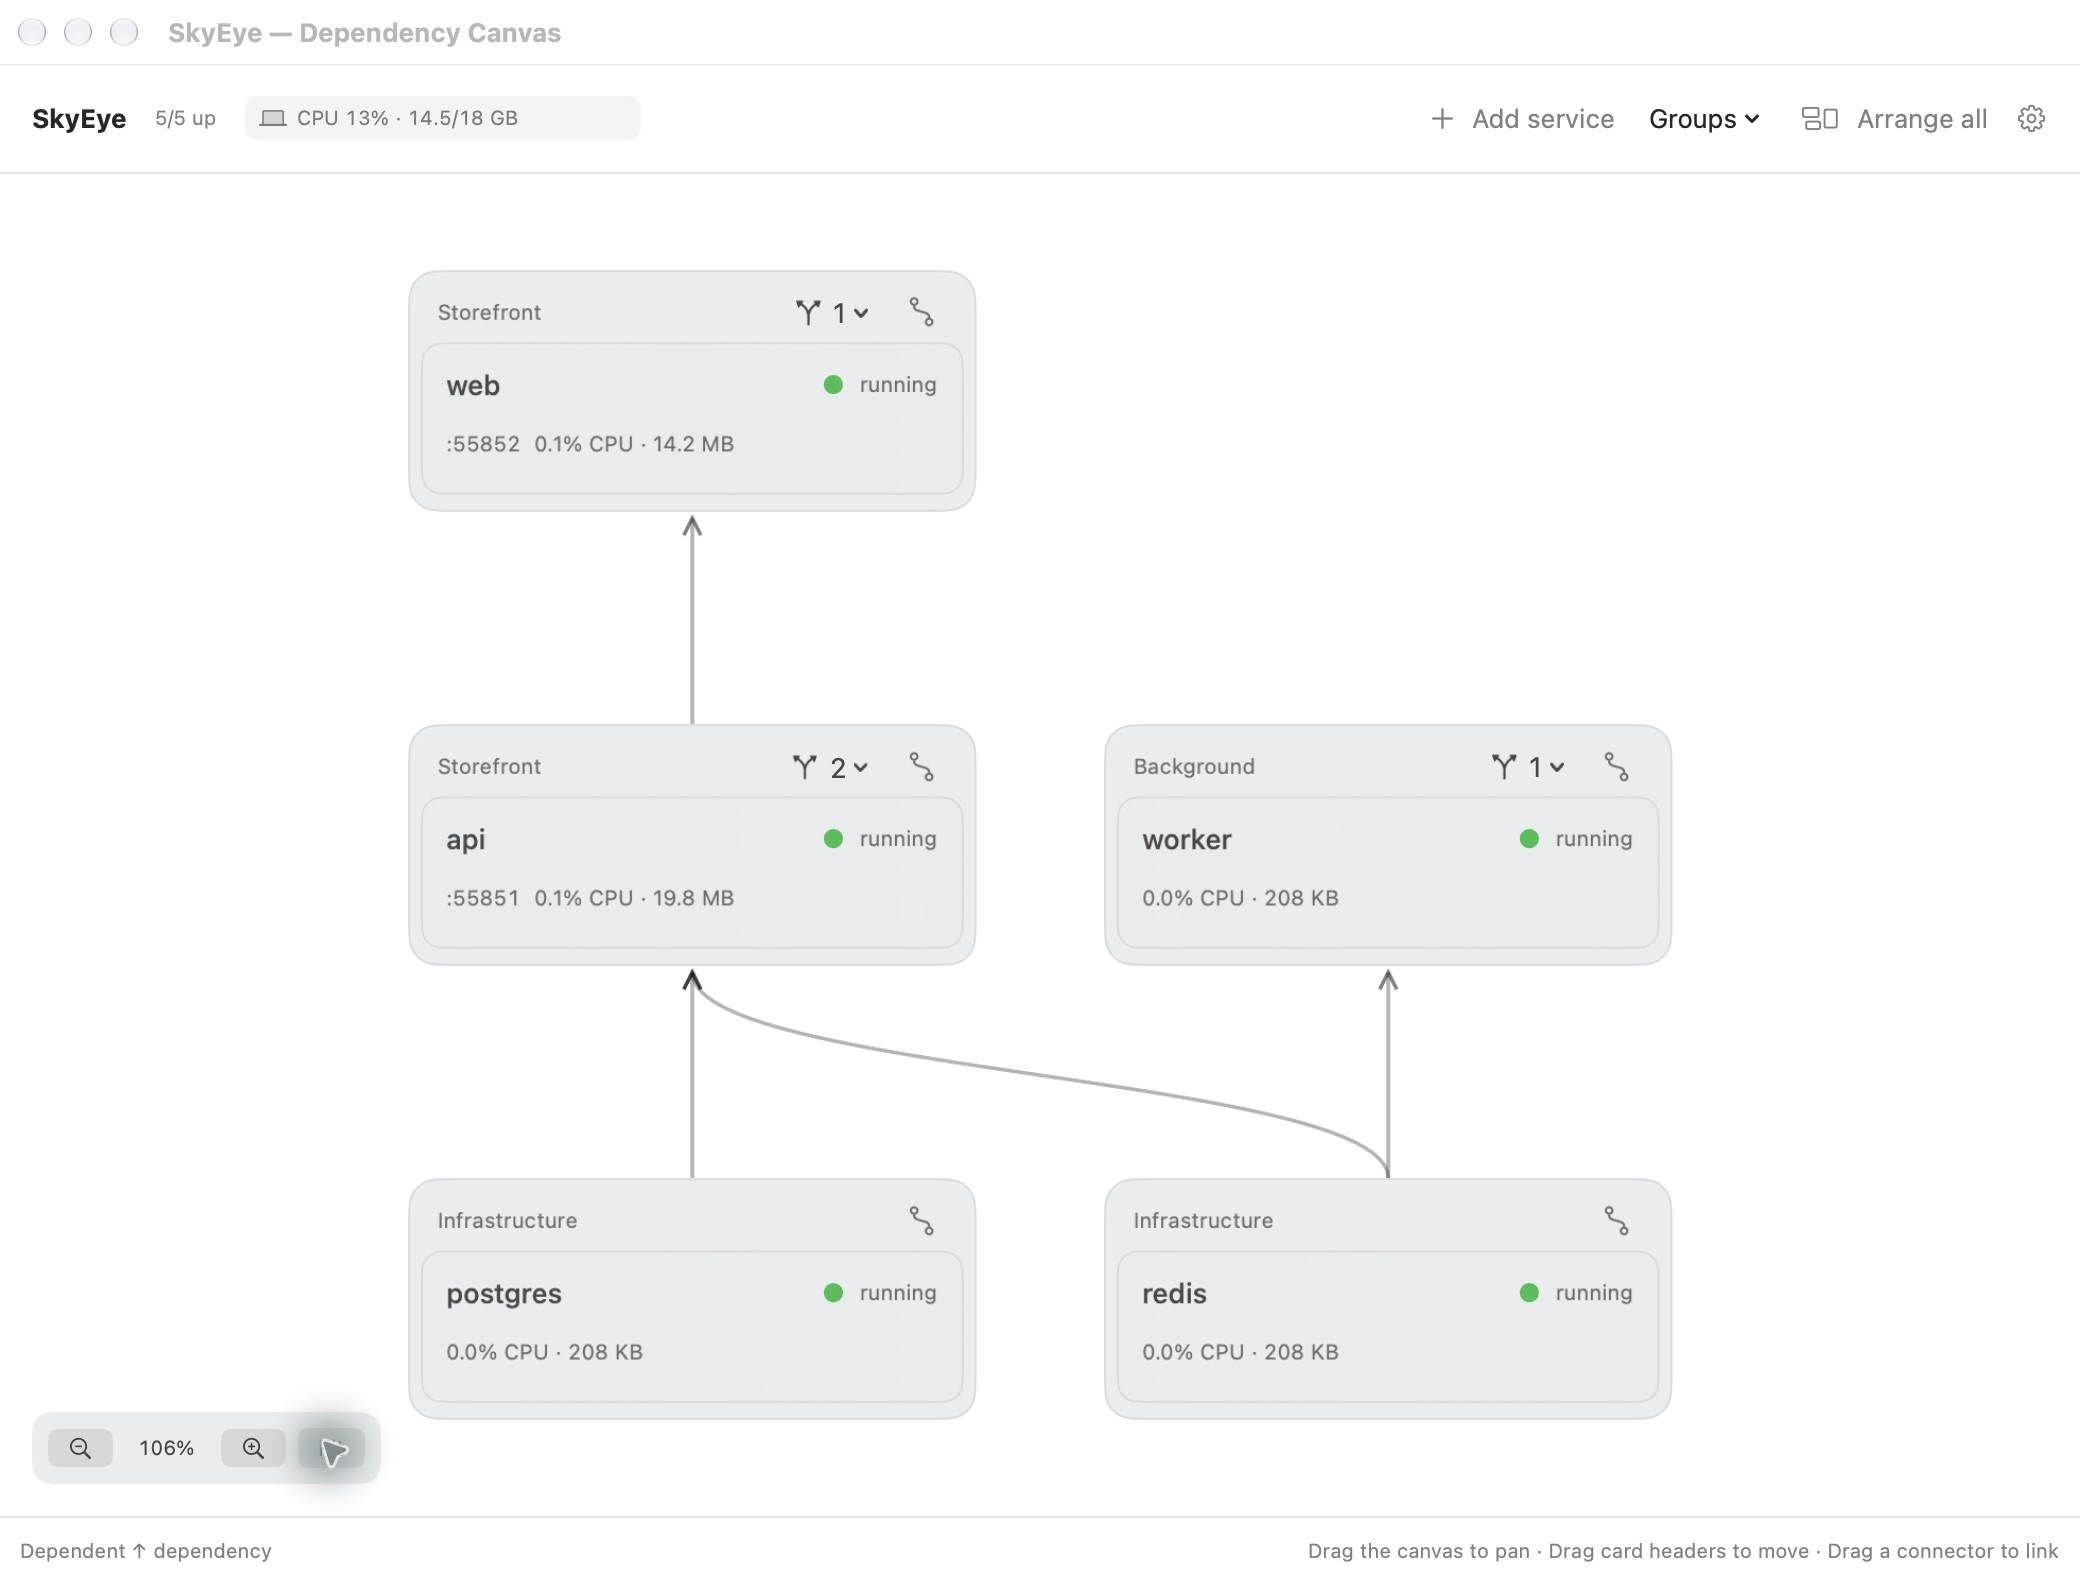
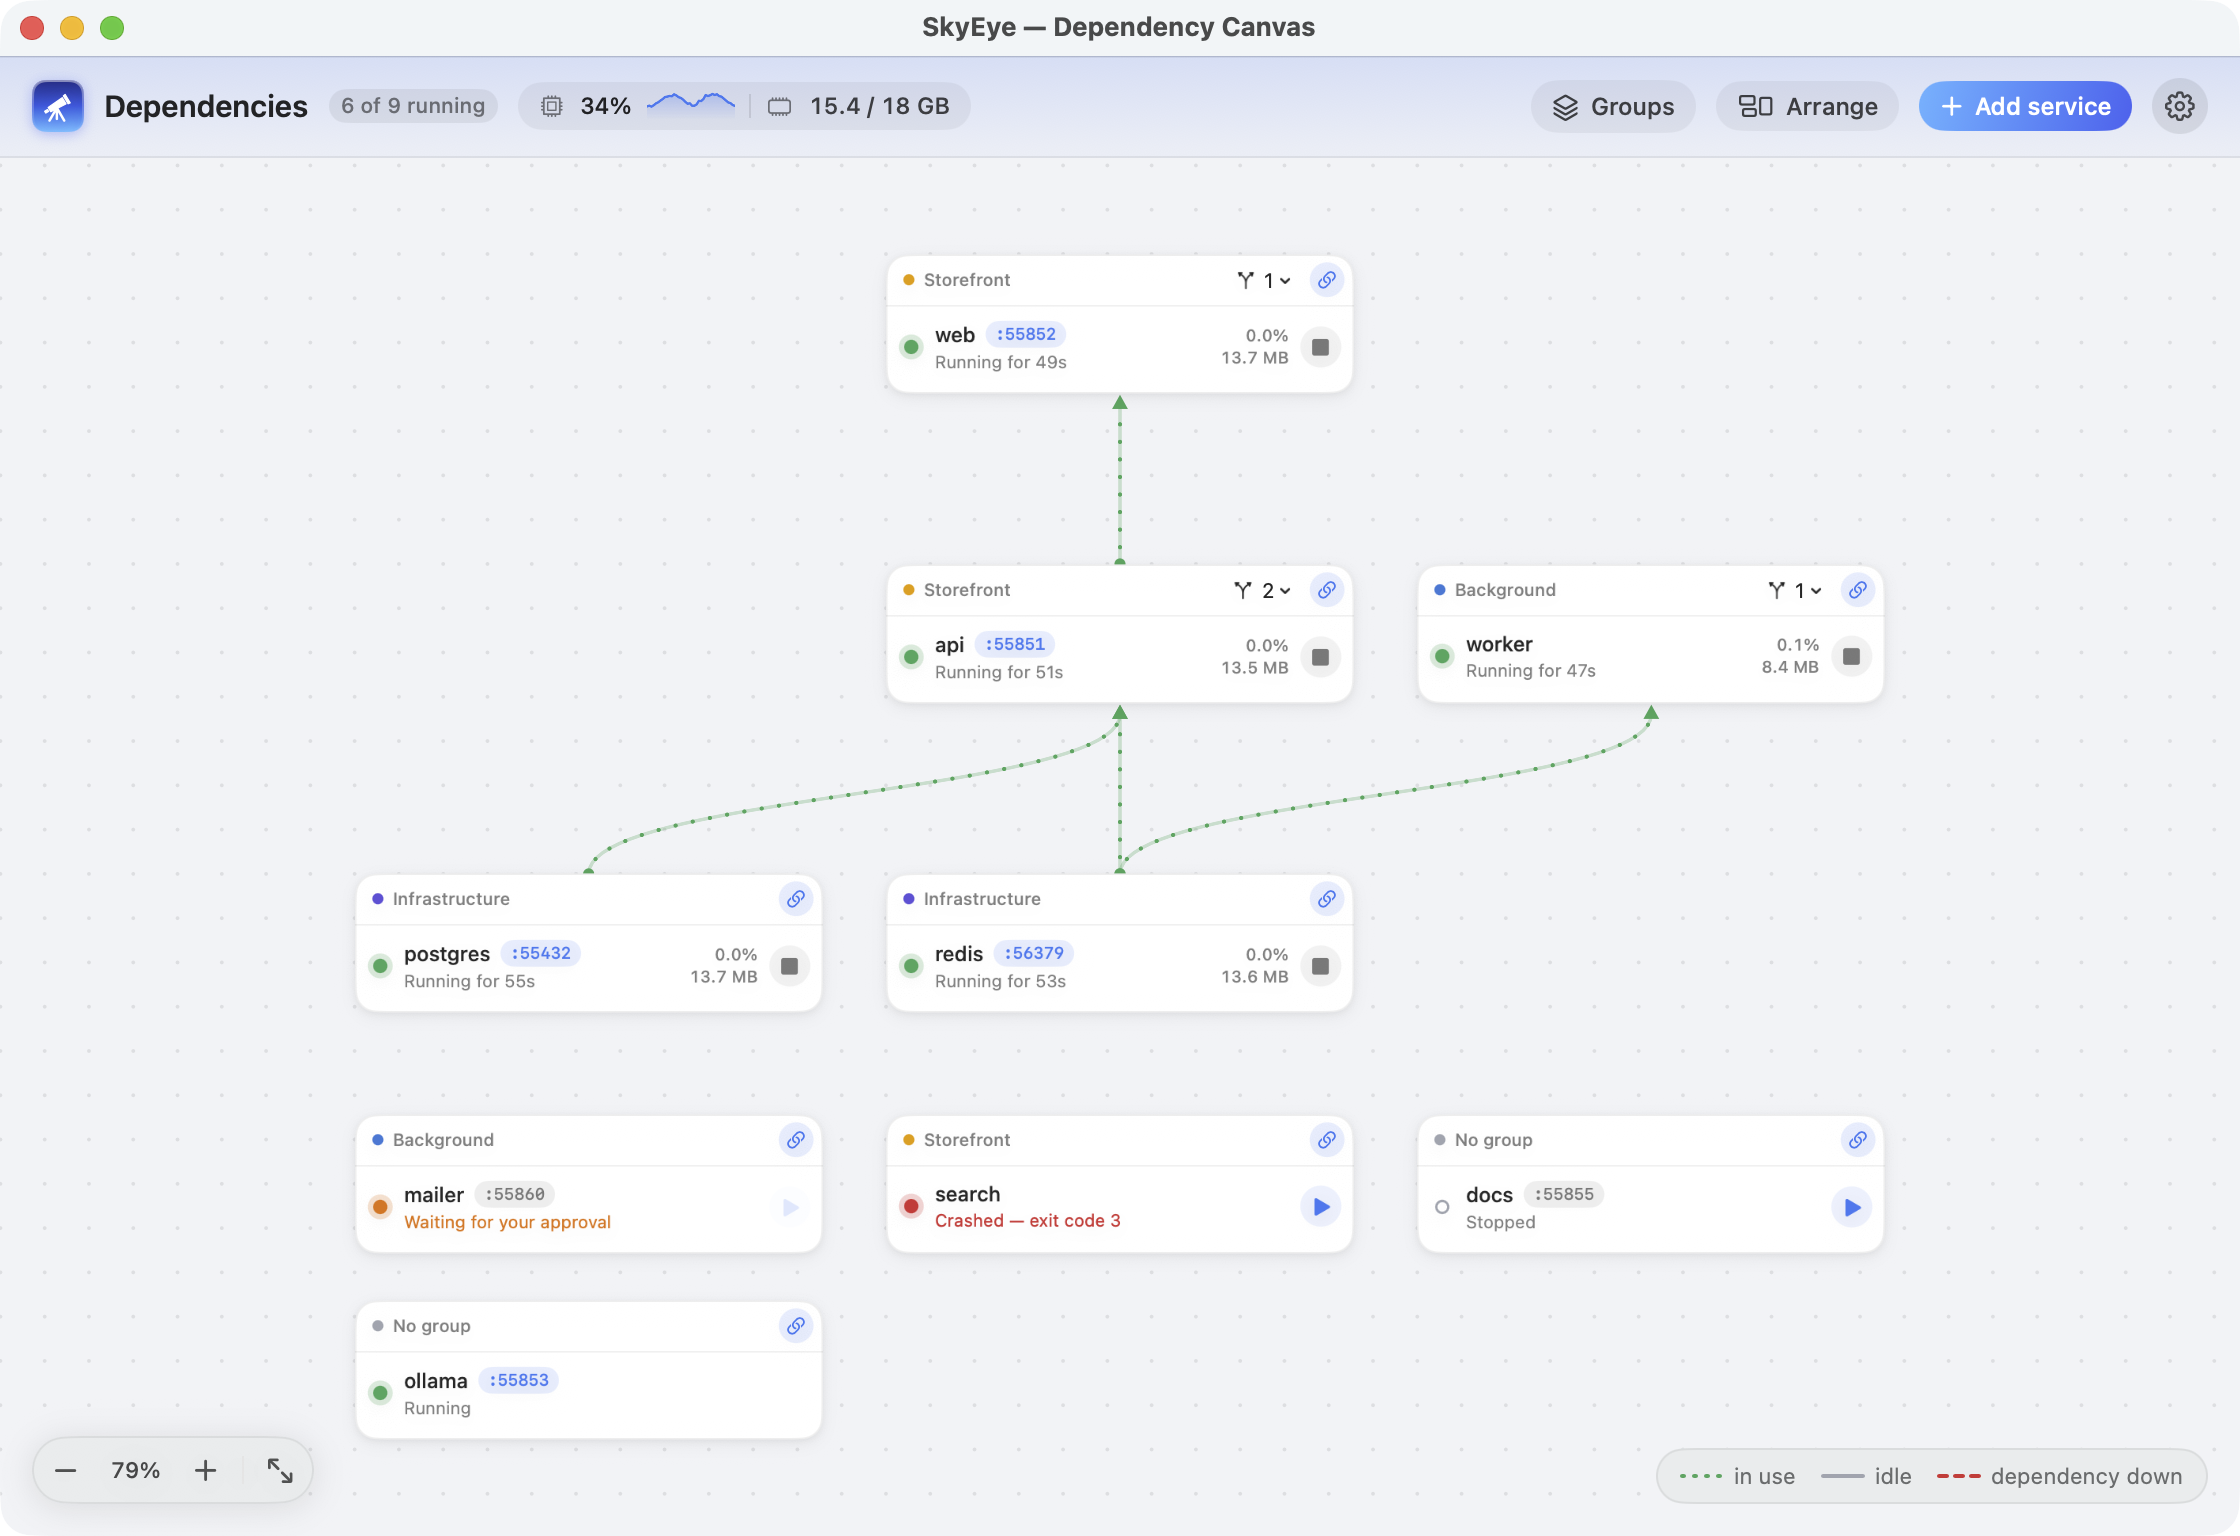
docs: describe the refreshed interface
The screenshots use demo services.

diff --git a/README.md b/README.md
@@ -89,9 +89,12 @@ SkyEye does not have an automatic updater.
 4. Enter the port, if the service uses one.
 5. Select **Save**.
 
-Point at a service card to show its action buttons.
-Use these buttons to start, stop, or restart the service.
-You can also open its URL, read its logs, or edit its settings.
+Each service has a start or stop button.
+Point at a service to show more buttons: open its URL, read its logs, restart it, or edit it.
+While a service runs, select its port to open the service in your browser.
+
+Services in a group share one card. Select the group's name to fold or open the card.
+A folded card shows one dot for each service.
 
 To monitor a service without starting it, set its port and leave the command empty.
 SkyEye calls this a *monitor-only service*.
@@ -139,8 +142,18 @@ Each shared dependency appears once.
 
 - Drag a card's top bar to move it.
 - Drag the empty canvas to move the view.
-- Use the zoom buttons or **Fit** to change the view.
-- Select **Arrange all** to restore the automatic layout.
+- Use the zoom buttons to change the view. The button with two arrows fits all cards in the window.
+- Select **Arrange** to restore the automatic layout.
+
+The canvas opens with all cards in view.
+It keeps them in view when you add or connect services, until you move or zoom the view.
+Services without connections sit in rows below the others.
+
+| Line | Meaning |
+| --- | --- |
+| Green, with moving dots | A running service uses this dependency. |
+| Gray | One of the two services is not running. |
+| Red, dashed | A service runs, but its dependency does not. |
 
 To add a dependency, drag its connector onto the service that needs it.
 You can also select the dependency's connector, then the other service's connector.
@@ -221,13 +234,20 @@ The chart page does not receive command lines, folders, or file paths.
 
 ## Read resource use
 
-The status badge changes every five seconds.
-It shows CPU and memory use for the computer, SkyEye, or running services.
-The laptop, telescope, and stacked-box icons identify each view.
-Point at the badge to pause the cycle and see its short description.
+The top of the menu shows three readings: CPU and memory for the whole computer, and how many services run.
+Point at the readings to see what the running services and SkyEye use.
 
-CPU readings in the badge use total computer capacity.
-CPU readings on individual service cards use one core as 100 percent.
+Each running service shows its own CPU and memory.
+The small chart beside them shows its CPU over the last minute.
+
+CPU readings at the top use total computer capacity.
+CPU readings on individual services use one core as 100 percent.
+
+## Read logs
+
+Point at a service and select the logs button.
+SkyEye colors lines that report an error or a warning.
+Type in the field above the log to show only the lines that contain your text.
 
 ## Use the command-line tools
 
@@ -362,7 +382,15 @@ python3 -m unittest discover -s scripts/tests -v
 ./scripts/package.sh
 ```
 
-To open the ports page when the app starts, pass `--open-ports` to the app's executable.
+To open a page when the app starts, pass an argument to the app's executable:
+
+| Argument | Page |
+| --- | --- |
+| `--open-services` | The menu's content, in a window. Add `settings`, `new`, `edit:<name>` or `logs:<name>` to open that page. |
+| `--open-canvas` | The dependency canvas. |
+| `--open-ports` | The ports page. |
+
+With `SKYEYE_HOME` set, SkyEye keeps its window layout and other interface preferences apart from the main app's.
 To preview the charts in a browser with demo data, serve the `Resources` folder.
 Then open `http://localhost:8765/charts-dev/preview.html`.
 

diff --git a/HUMAN.md b/HUMAN.md
@@ -22,7 +22,7 @@ Built natively for macOS. Open source. Works with your terminal and AI coding ag
 | Watch something you started elsewhere | Add its port as a monitor-only service, with no start command. |
 | Check what's exposed | Open **Ports** to see every listening port, how far it can be reached, and which programs talk to the internet. |
 
-Point at a service card to find its start, stop, restart, URL, logs, and edit buttons.
+Every service has a start or stop button. Point at a service to find its restart, URL, logs, and edit buttons.
 
 ## See how your stack fits together
 
@@ -40,7 +40,7 @@ Requires **macOS 14 or later and an Apple Silicon Mac**. No Xcode needed.
 
 1. Open the **telescope icon** in your menu bar.
 2. Select **Add service**. Give it a name, its usual start command (for example, `npm run dev`), and its project folder. Add a port if it uses one.
-3. Save, then point at the card and select **Start**.
+3. Save, then select the start button on the service.
 4. Add your other services. Set dependencies in the service editor or connect them on the canvas.
 
 ## Let your agent help
